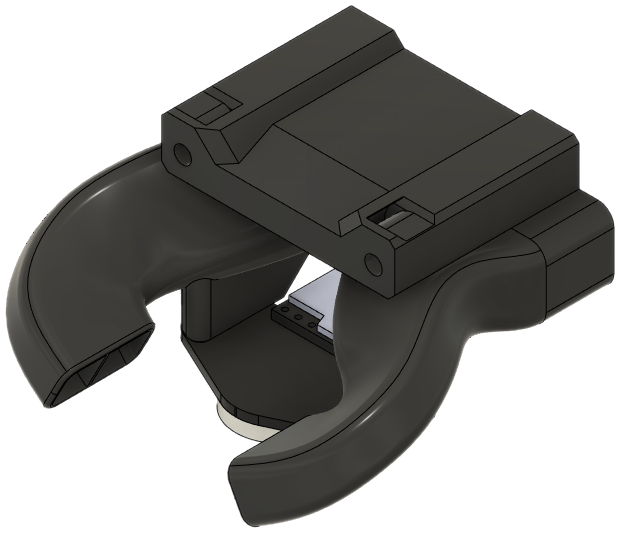
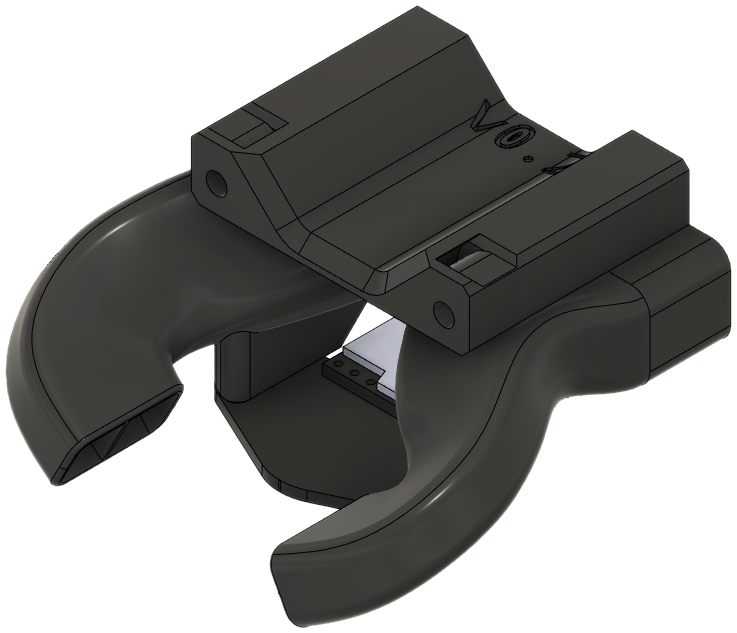
Updated Beacon UHF to v0.2

diff --git a/docs/modules/bottom.md b/docs/modules/bottom.md
@@ -210,7 +210,7 @@ Two options are available for routing the rear wiring:
 - [cuiviemen](https://www.printables.com/@cuiviemen_127292)'s [Beacon mod](https://www.printables.com/model/438193-beacon-3d-mount-solution-for-e34m1-eva-3-for-mercu) passes the USB cable between the rear intake and 5015 fan.
 - The [Sideways Cooling Inlet for Beacon](rear.md#sideways-cooling-inlet-for-beacon) routes the wire outside the cooling inlet.
 
-[**Revision:**](#revision-history) v0.1
+[**Revision:**](#revision-history) v0.2
 
 **Origin**
 
@@ -336,6 +336,7 @@ The Klicky probe's Y offset is approximately 37mm from the nozzle.
 
 | Date | File | Version | Description |
 |------|------|---------|-------------|
+| 23/11/02 | `beacon_bottom_uhf.stl`        | v0.2 | Raised Beacon; lightened part |
 | 23/09/04 | `stock_bottom_uhf.stl`         | v0.1 | Inital release. |
 | 23/09/11 | `stock_bottom.stl`             | v0.3 | Further reduced weight; new template |
 | 23/09/04 | `beacon_bottom.stl`            | v0.2 | Reduced part weight. |

diff --git a/docs/changelog.md b/docs/changelog.md
@@ -11,6 +11,7 @@ date: 2023-1-26
 
 - Hotends, Tour, Front, ABL: fixed numerous errors and updated illustrations
 - Compatibility page: updated tables
+- Bottom Horns: moved Beacon UHF up 0.6mm; lightened part
 
 ### 11/2/23
 
